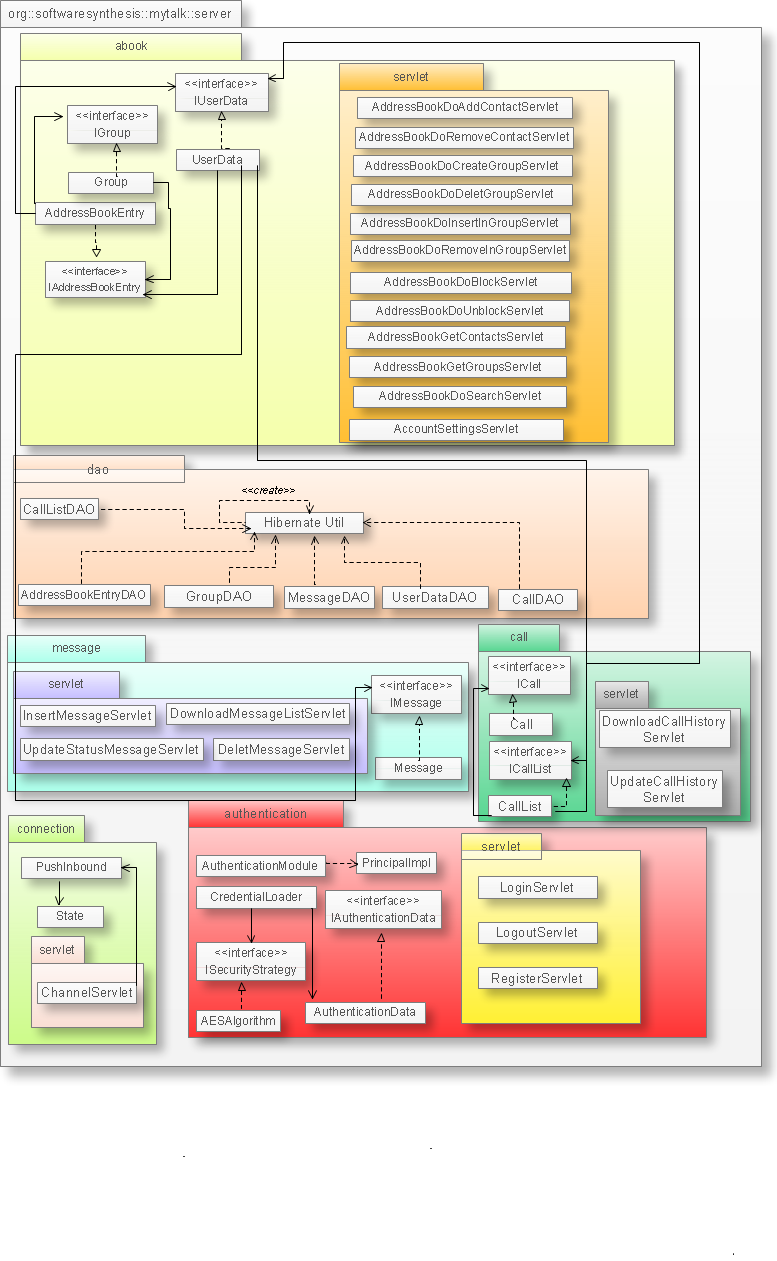
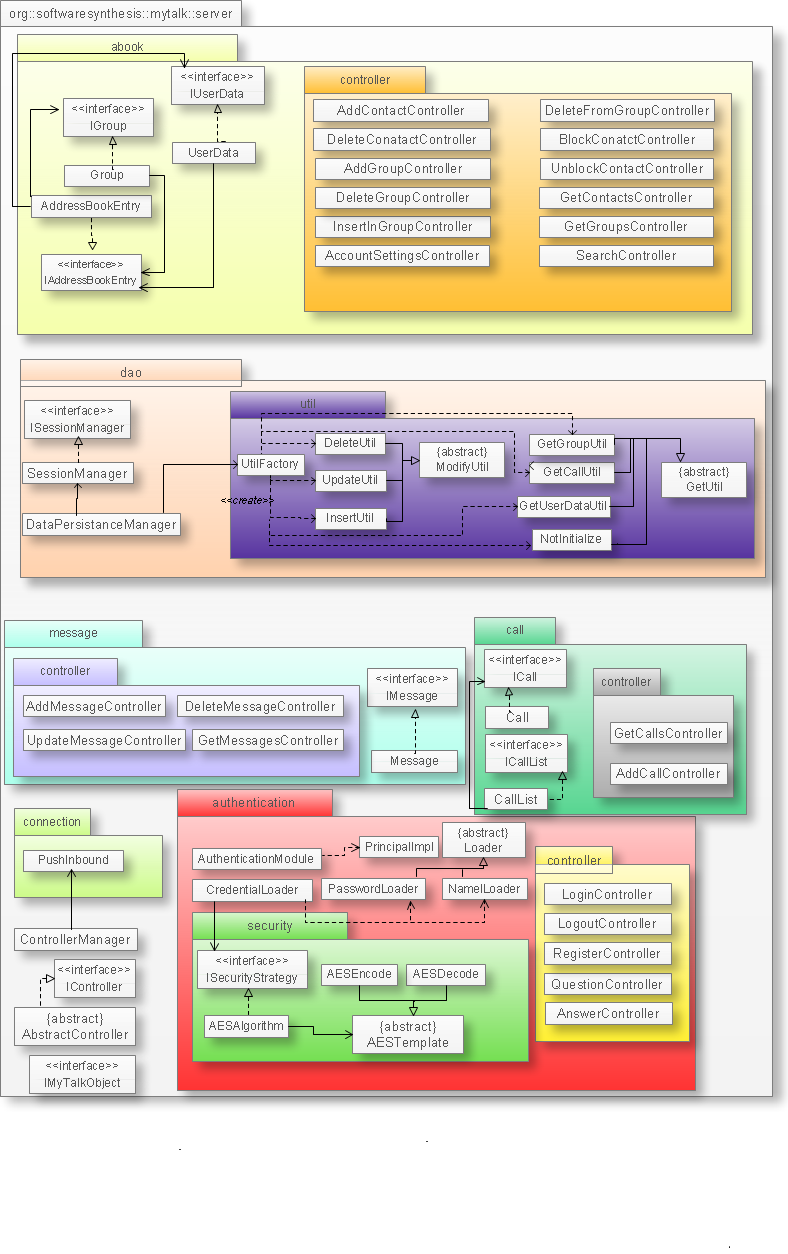
varificata e corretta specifica tecnica fino al server

diff --git a/Documents/specifica_tecnica/specifica_tecnica.tex b/Documents/specifica_tecnica/specifica_tecnica.tex
@@ -801,7 +801,7 @@ Altri due \inglese{controller} sono predisposti per il recupero della password. 
 	\item \texttt{authentication.controller.AnswerController} per richiedere al server la validazione della risposta inserita dall'utente.
 \end{itemize}
 
-Per garantire un buon livello di sicurezza nell'invio dei dati l'applicativo si appoggia ad un sistema di criptazione basato su algoritmo AES. Tali funzionalità sono fornite dalla classe \texttt{authentication.security.AESAlgorithm}, che implementa l'interfaccia \texttt{authentication.security.ISecurityStrategy}. Tale classe fornisce due procedure, quella per criptare i dati e quella per decriptarli. Esse sono rappresentate dalle classi \texttt{authentication.security.AESEncode} e \texttt{authentication.security.AESDecode}. Entrambe estendono la classe astratta \texttt{authentication.security.AESTemplate} e basano la propria implementazione sul \inglese{pattern} \texttt{Template Method}.
+Per garantire un buon livello di sicurezza nell'invio dei dati l'applicativo si appoggia ad un sistema di criptazione basato su algoritmo AES. Tali funzionalità sono fornite dalla classe \texttt{authentication.security.AESAlgorithm}, che implementa l'interfaccia \texttt{authentication.security.ISecurityStrategy}. Tale classe fornisce due procedure, quella per criptare i dati e quella per decriptarli. Esse sono rappresentate dalle classi \texttt{authentication.security.AESEncode} e \texttt{authentication.security.AESDecode}. Entrambe estendono la classe astratta \texttt{authentication.security.AESTemplate} e basano la propria implementazione sul \inglese{pattern} Template Method.
   
   \item{\scshape\bfseries Diagramma delle classi:}
 \begin{figure}[H]
@@ -983,7 +983,7 @@ Infine il download e la gestione della segreteria telefonica (di competenza di \
 
 Il diagramma in figura \ref{fig:facadeserver} rappresenta la gerarchia dei \inglese{controller} del \inglese{front controller} ma non mostra in dettaglio le dipendenze fra ognuna di questi e i componenti interni ai sotto-package \texttt{abook}, \texttt{authentication}, \texttt{call}, \texttt{connection} e \texttt{message} per non appesantire troppo la notazione.
 
-Tali dipendenze, di fondamentale importanza per l'architettura, sono però riportate nei diagrammi della sezione \vref{sec:patternfacade} in cui è descritta con maggiori dettagli l'applicazione del \inglese{design pattern} \inglese{front controller}.
+Tali dipendenze, di fondamentale importanza per l'architettura, sono però riportate nei diagrammi della sezione \vref{sec:patternfacade} in cui è descritta con maggiori dettagli l'applicazione del \inglese{design pattern} Front Controller.
 	
 	\item{\scshape\bfseries Classi utilizzate:}\\
 	\begin{itemize}[noitemsep,nolistsep]
@@ -1073,7 +1073,7 @@ Classe astratta che implementa \texttt{IController}. Fornisce un implementazione
 \item \texttt{ControllerManager}
 \begin{description}
   \item{\scshape\bfseries Descrizione:}\\
-Classe che costituisce il front \inglese{controller} del server. Ogni richiesta inoltrata al server dovrà passare per questa classe. Essa avrà quindi il compito di riconoscere il tipo di richiesta (tramite un associazione nomi richiesta - classe destinataria), e di creare quindi un istanza del controller associato.
+Classe che costituisce il front \inglese{controller} del server. Ogni richiesta inoltrata al server dovrà passare per questa classe. Essa avrà quindi il compito di riconoscere il tipo di richiesta (tramite un associazione nomi richiesta - classe destinataria), e di creare quindi un' istanza del controller associato.
   \item{\scshape\bfseries Componenti che ne fanno uso:}
   \begin{itemize}[noitemsep,nolistsep]
     \item[-] \textsf{CS08 -- Front controller}
@@ -1259,18 +1259,6 @@ Il comportamento della sotto-architettura server in risposta ai messaggi ricevut
   \end{itemize}
   \end{description}
   
-\item \texttt{State}
-\begin{description}
-  \item{\scshape\bfseries Descrizione:}\\
-Classe che attraverso un tipo enumerativo rappresenta lo stato in cui si trova un utente. Si osservi che tale stato non è associato direttamente all'utente ma bensì al canale di comunicazione (univoco) di cui l'utente diventa proprietario al momento del \inglese{login}. Di conseguenza le istanze della classe \texttt{connection.PushInBound} sono composte con un'istanza di \texttt{abook.State} che rappresenta lo stato in cui si trova un determinato utente in un determinato momento.
-  
-  \item{\scshape\bfseries Componenti che ne fanno uso:}
-  \begin{itemize}
-    \item[-] \textsf{CS02 -- Gestione rubrica}
-    \item[-] \textsf{CS07 -- Gestione controller}
-   \end{itemize}
-\end{description}
-
 \end{itemize}
 
 \subsubsection{Package \texttt{org.softwaresynthesis.mytalk.server.abook}}
@@ -1333,7 +1321,7 @@ Classe \inglese{transfer object} che implementa l'interfaccia \texttt{IUserData}
 \item \texttt{IGroup}
 \begin{description}
 	\item{\scshape\bfseries Descrizione:}\\
-Interfaccia per i gruppi interni alla rubrica di un utente, prevede un'operazione astratta \texttt{add(IUserData)} per l'aggiunta di un nuovo contatto al gruppo e \texttt{remove(IUserData)} per la sua rimozione di un contatto dal gruppo. Contiene anche i metodi \inglese{get}/\inglese{set} per impostare o recuperare il nome di un gruppo.
+Interfaccia per i gruppi interni alla rubrica di un utente. Prevede un'operazione astratta \texttt{add(IUserData)} per l'aggiunta di un nuovo contatto al gruppo e \texttt{remove(IUserData)} per la sua rimozione di un contatto dal gruppo. Contiene anche i metodi \inglese{get}/\inglese{set} per impostare o recuperare il nome di un gruppo.
 
 	\item{\scshape\bfseries Componenti che ne fanno uso:} 
 	  \begin{itemize}[noitemsep,nolistsep]
@@ -1651,7 +1639,7 @@ Classe \inglese{transfer object} che rappresenta una voce nella lista delle chia
 \item \texttt{AuthenticationModule}
 \begin{description}
   \item{\scshape\bfseries Descrizione}\\
-  	Implementazione dell'interfaccia \texttt{javax.security.auth.spi.LoginModule} definisce la logica di autenticazione attuata dal sistema \caName. Se si avesse bisogno di una maggiore sicurezza per questa procedura è sufficiente fornire una nuova implementazione di questa interfaccia.
+  	Implementazione dell'interfaccia \texttt{javax.security.auth.spi.LoginModule}. Definisce la logica di autenticazione attuata dal sistema \caName. Se si avesse bisogno di una maggiore sicurezza per questa procedura è sufficiente fornire una nuova implementazione di questa interfaccia.
   \item{\scshape\bfseries Componenti che ne fanno uso}
   \begin{itemize}[noitemsep,nolistsep]
     \item[-] \textsf{CS04 -- Gestione autenticazione}
@@ -1662,7 +1650,7 @@ Classe \inglese{transfer object} che rappresenta una voce nella lista delle chia
 \item \texttt{CredentialLoader}
 \begin{description}
   \item{\scshape\bfseries Descrizione}\\
-  	La classe ha compito di caricare le credenziali di accesso, fornite dall'utente, con lo scopo di metterle a disposizione del modulo di autenticazione \texttt{AuthenticationModule}.
+Implementazione dell'interfaccia \texttt{javax.security.auth.spi.callbackHandler}. La classe ha compito di caricare le credenziali di accesso, fornite dall'utente, con lo scopo di metterle a disposizione del modulo di autenticazione \texttt{AuthenticationModule}.
   \item{\scshape\bfseries Componenti che ne fanno uso}
   \begin{itemize}[noitemsep,nolistsep]
     \item[-] \textsf{CS04 -- Gestione autenticazione}
@@ -1673,7 +1661,7 @@ Classe \inglese{transfer object} che rappresenta una voce nella lista delle chia
 \item \texttt{PrincipalImpl}
 \begin{description}
   \item{\scshape\bfseries Descrizione}\\
-  	La classe serve per contenere un elemento identificativo dell'utente che ha effettuato l'autenticazione, in modo che possa essere facilmente identificato nelle altre componenti del software.  
+  	Implementazione dell'interfaccia \texttt{javax.security.Principal}. La classe serve per contenere un elemento identificativo dell'utente che ha effettuato l'autenticazione, in modo che possa essere facilmente identificato nelle altre componenti del software.  
   \item{\scshape\bfseries Componenti che ne fanno uso}
   \begin{itemize}[noitemsep,nolistsep]
     \item[-] \textsf{CS04 -- Gestione autenticazione}
@@ -1719,7 +1707,7 @@ Classe \inglese{transfer object} che rappresenta una voce nella lista delle chia
 \item \texttt{ISecurityStrategy}
 \begin{description}
 	\item{\scshape\bfseries Descrizione}\\
-		Interfaccia che contiene la strategia di crittografia adottata dal sistema \caName per garantire la sicurezza dei dati dell'utente registrato al sistema stesso.
+		Interfaccia che contiene la strategia di crittografia adottata dal sistema  MyTalk per garantire la sicurezza dei dati dell'utente registrato al sistema stesso.
 	\item{\scshape\bfseries Componenti che ne fanno uso}
 		\begin{itemize}[noitemsep,nolistsep]
 			\item[-] \textsf{CS04 -- Gestione autenticazione}
@@ -1730,7 +1718,7 @@ Classe \inglese{transfer object} che rappresenta una voce nella lista delle chia
 \item \texttt{AESAlgorithm}
 \begin{description}
 	\item{\scshape\bfseries Descrizione}\\
-		Implementa l'interfaccia \texttt{ISecurityStrategy} implementando la strategia di cripting, ovvero adottando l'algoritmo AES a 128 bit scelto dal team.
+		Implementa l'interfaccia \texttt{ISecurityStrategy} implementando la strategia di crittografia, ovvero adottando l'algoritmo AES a 128 bit scelto dal team.
 	\item{\scshape\bfseries Componenti che ne fanno uso}
 		\begin{itemize}[noitemsep,nolistsep]
 			\item[-] \textsf{CS04 -- Gestione autenticazione}
@@ -1780,7 +1768,7 @@ Classe \inglese{transfer object} che rappresenta una voce nella lista delle chia
 \item \texttt{LoginController}
 \begin{description}
   \item{\scshape\bfseries Descrizione}\\
-\textit{Controller} che ha il compito di autorizzare l'accesso al sistema \caName di un determinato utente precedentemente iscritto. 
+\textit{Controller} che ha il compito di autorizzare l'accesso al sistema \caName{} di un determinato utente precedentemente iscritto. 
   \item{\scshape\bfseries Componenti che ne fanno uso}
   \begin{itemize}[noitemsep,nolistsep]
     \item[-] \textsf{CS04 -- Gestione autenticazione}
@@ -1792,7 +1780,7 @@ Classe \inglese{transfer object} che rappresenta una voce nella lista delle chia
 \item \texttt{LogoutController}
 \begin{description}
   \item{\scshape\bfseries Descrizione}\\
-\textit{Controller} che ha il compito di terminare l'accesso al sistema \caName da parte di un determinato utente precedentemente autenticato. 
+\textit{Controller} che ha il compito di terminare l'accesso al sistema \caName{} da parte di un determinato utente precedentemente autenticato. 
   \item{\scshape\bfseries Componenti che ne fanno uso}
   \begin{itemize}[noitemsep,nolistsep]
     \item[-] \textsf{CS04 -- Gestione autenticazione}
@@ -1842,7 +1830,8 @@ Classe \inglese{transfer object} che rappresenta una voce nella lista delle chia
 \end{figure}
 
 Il diagramma in figura \ref{fig:sottoarchserver} rappresenta solo ed esclusivamente le classi definite in sede di progettazione architetturale e non riporta invece tutte le interfacce/classi appartenenti a librerie esterne (ad es. \texttt{javax.servlet.http.HttpServlet}) che sono state estese o implementate nella sotto-architettura server. Tali informazioni, che avrebbero appesantito ulteriormente un diagramma già di grandi dimensioni sono invece riportate nei diagrammi dei singoli componenti.
-Inoltre il diagramma non riporta le dipendenze.
+Inoltre il diagramma non riporta le dipendenze che sussistono tra i \inglese{controller} di un determinato sottopackage e le classi/interfacce che appartengono al package padre.
+Infine non sono riportate le frecce che rappresentano la relazione di estensione dell'interfaccia \texttt{IMyTalkObjec} e della classe astratta\texttt{AbstractController}.
 \clearpage
 
 \section{Architettura \texttt{mytalk.clientpresenter}}\label{sec:clientpresenter}
